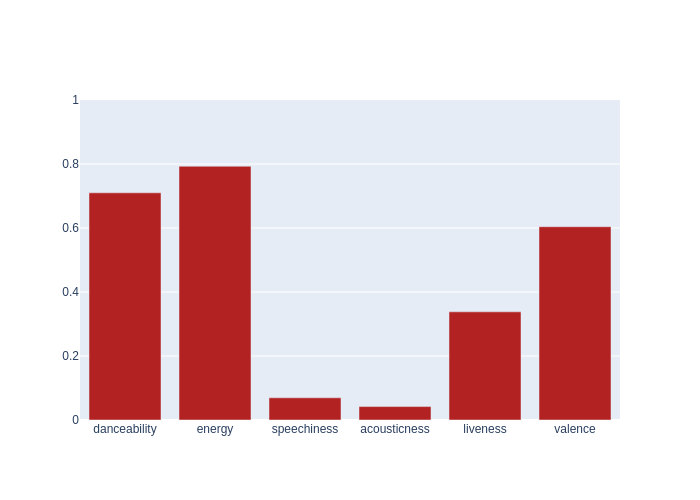
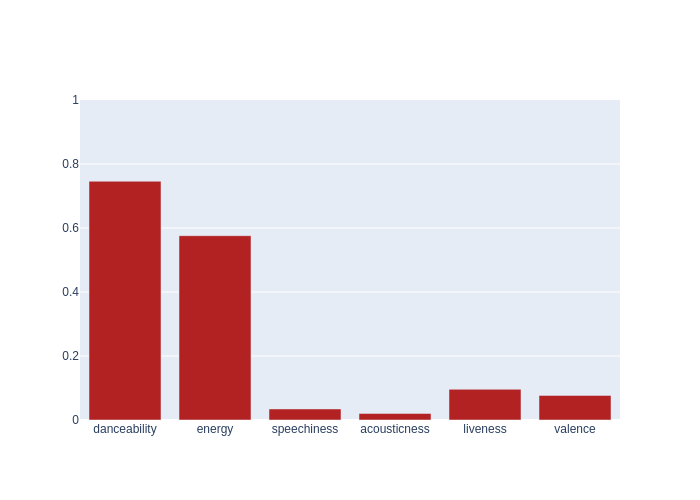
Automated README update

diff --git a/README.md b/README.md
@@ -4,7 +4,7 @@ Automated music metrics for fun, updated hourly.
 
 ## Spotify
 
-- currently listening to **Deepend - Skinny Dip (Komodo) [feat. Philip Strand]**
+- currently listening to **ZHU - I Admit It (feat. 24kGoldn)**
 
 - **830** liked songs
 - **127** playlists
